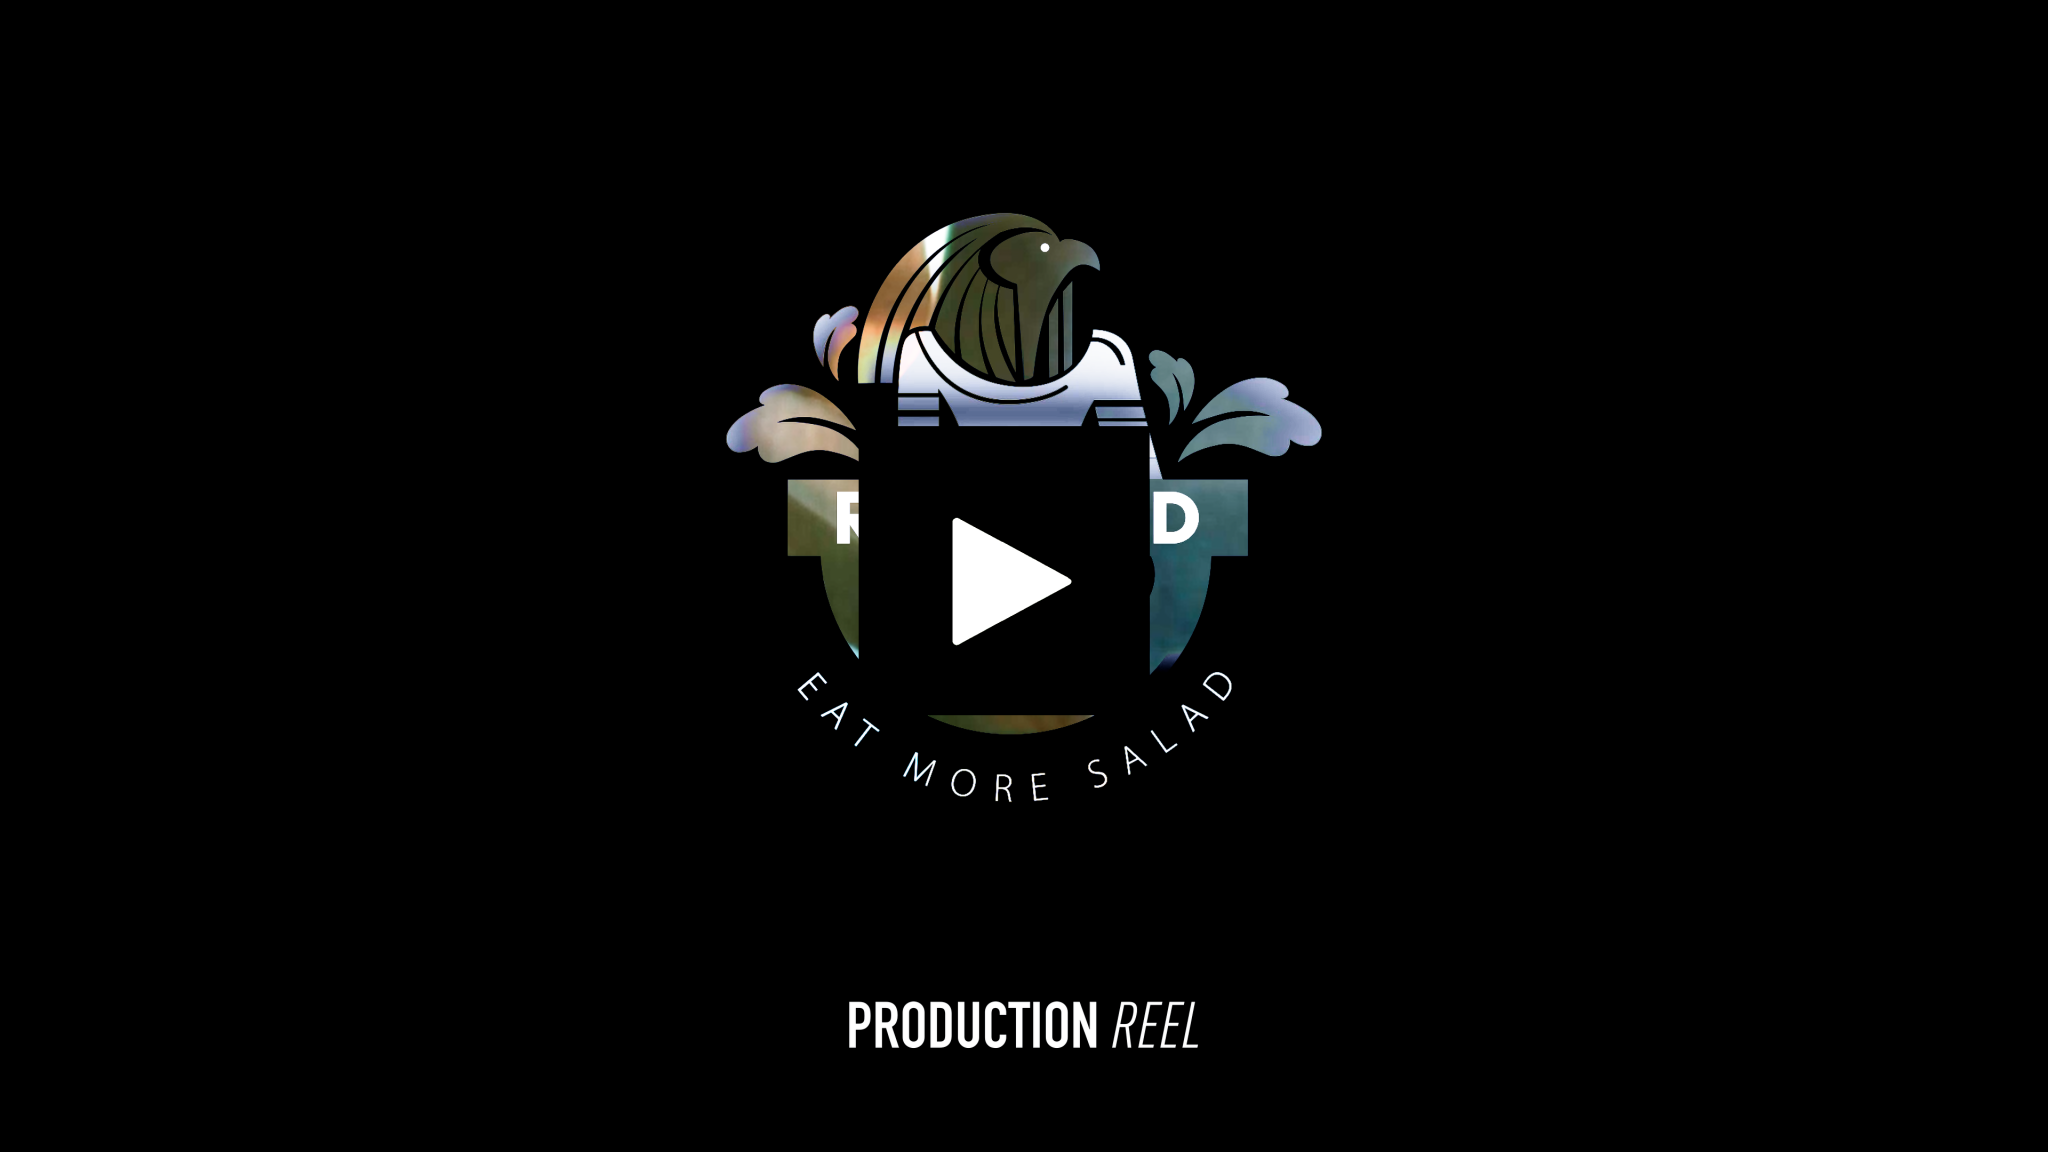
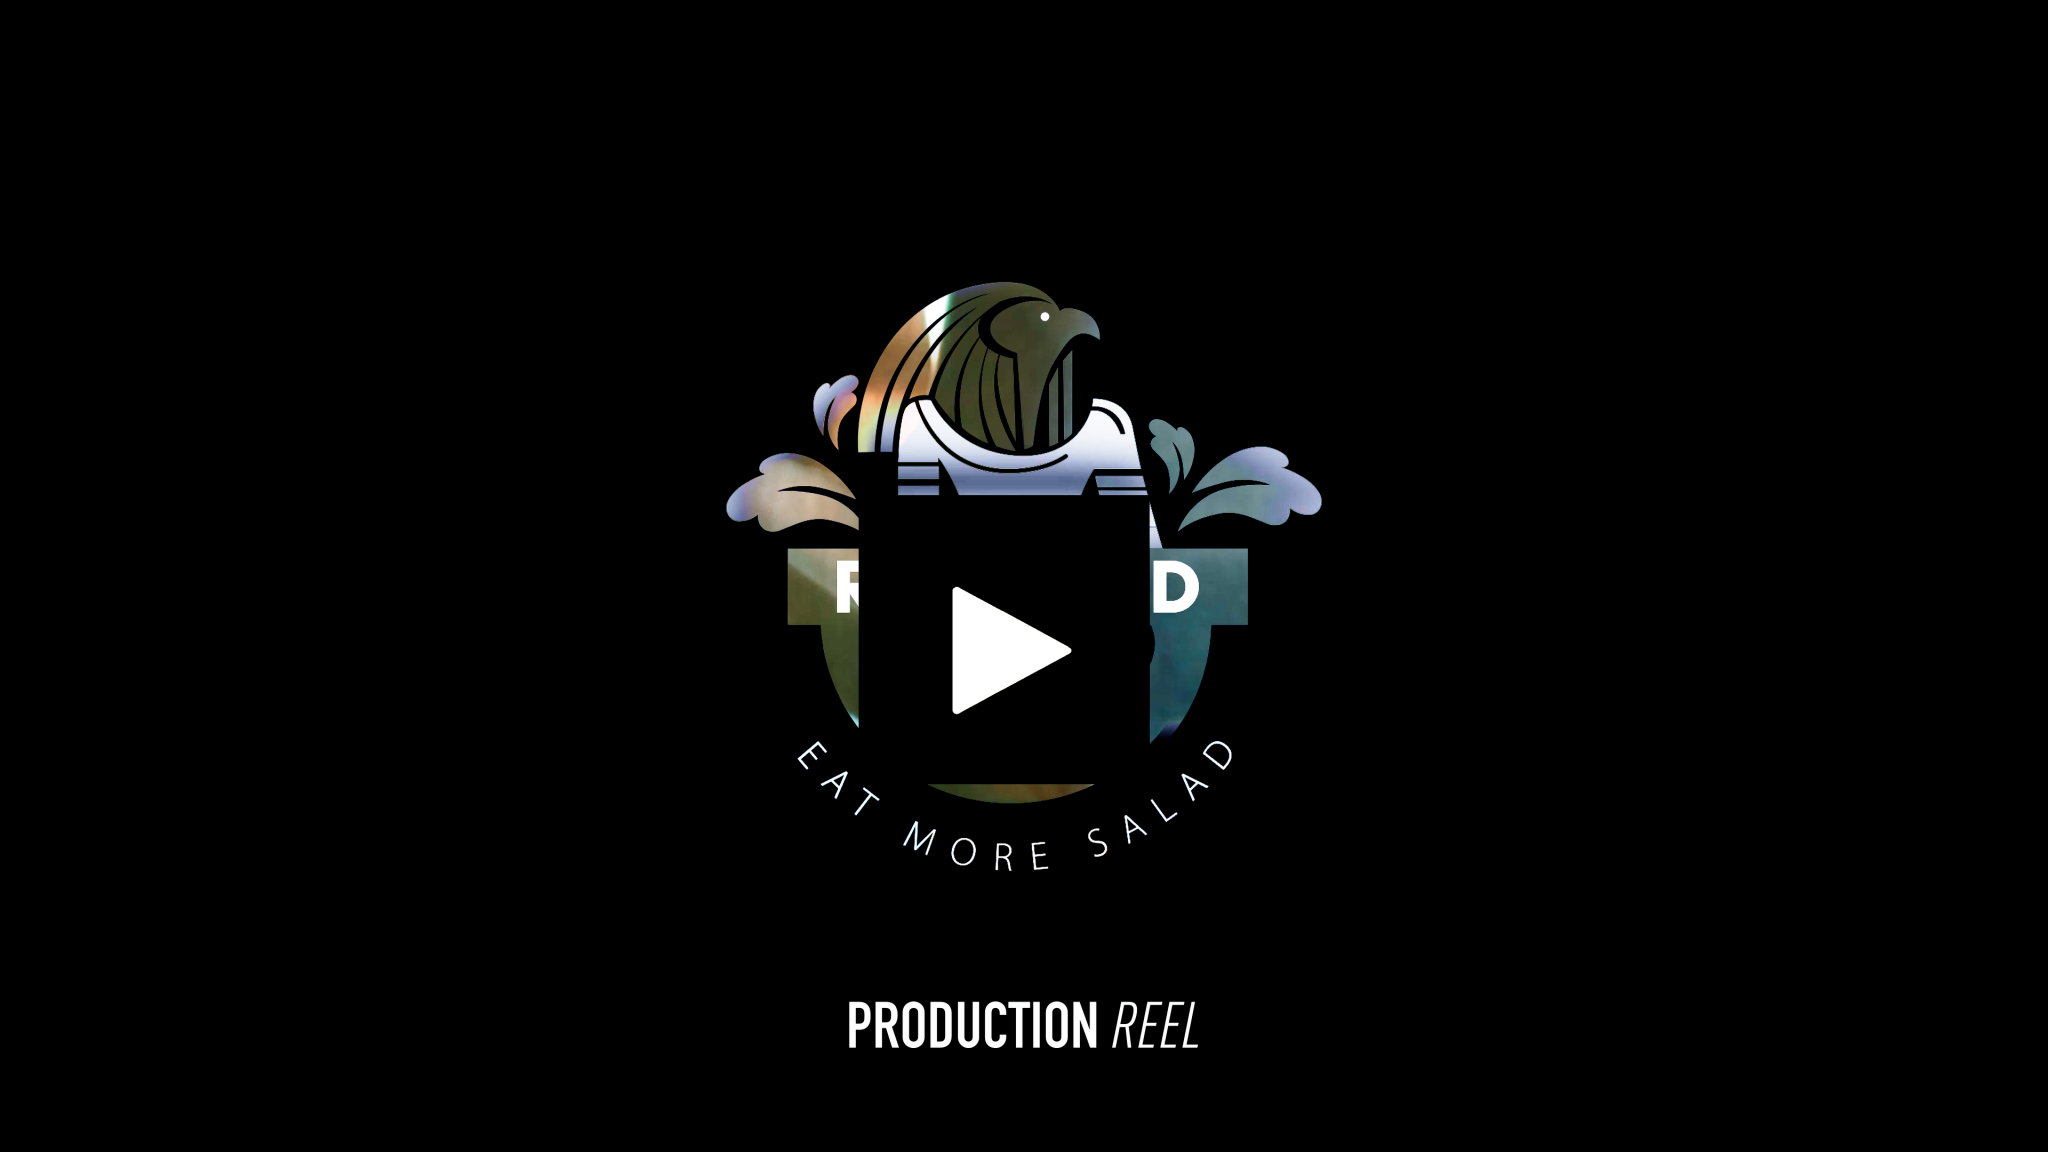
style clean up

Changed region(s): [[0.3438, 0.1875, 0.6562, 0.75], [0.5312, 0.7188, 0.5625, 0.75]]

diff --git a/styles/site.css b/styles/site.css
@@ -28,25 +28,74 @@
 /* Home header sits over the reel. The theme leaves the bar transparent
    (background:none), which reads as a thin grey line on the video.
    Paint the whole stack white and cover the 1px join. */
-.home #masthead,
-.home #masthead .ast-main-header-wrap,
-.home #masthead .ast-primary-header-bar,
-.home #masthead .main-header-bar,
-.home #masthead .site-primary-header-wrap,
-.home #masthead .ast-mobile-header-wrap,
-.home #masthead .ast-mobile-header-wrap .ast-primary-header-bar,
-.home #masthead .ast-mobile-header-wrap .main-header-bar,
-.home.ast-theme-transparent-header #masthead .main-header-bar,
-.home.ast-theme-transparent-header.ast-header-break-point #masthead .main-header-bar,
-.home #ast-fixed-header,
-.home #ast-fixed-header .main-header-bar,
-.home #ast-fixed-header .ast-primary-header-bar {
+/* Home at-rest header stays white over the reel. The sticky clone
+   (#ast-fixed-header) is nested inside #masthead, so these rules must
+   not reach it or the desktop sticky bar becomes a solid white slab. */
+.home #masthead > #ast-desktop-header,
+.home #masthead > #ast-desktop-header .ast-main-header-wrap,
+.home #masthead > #ast-desktop-header .ast-primary-header-bar,
+.home #masthead > #ast-desktop-header .main-header-bar,
+.home #masthead > #ast-desktop-header .site-primary-header-wrap,
+.home #masthead > #ast-mobile-header,
+.home #masthead > #ast-mobile-header .ast-main-header-wrap,
+.home #masthead > #ast-mobile-header .ast-primary-header-bar,
+.home #masthead > #ast-mobile-header .main-header-bar,
+.home.ast-theme-transparent-header #masthead > #ast-desktop-header .main-header-bar,
+.home.ast-theme-transparent-header.ast-header-break-point #masthead > #ast-mobile-header .main-header-bar {
 	background: #fff !important;
 	background-color: #fff !important;
 	box-shadow: none !important;
 	border: none !important;
 	border-bottom: none !important;
 	outline: none !important;
+}
+
+/* Sticky clone: same frosted glass as Portfolio
+   (rgba(255,255,255,0.62) + blur(20px)). Do not paint it
+   solid white, and do not force background:none — both
+   make Home/Contact diverge from Portfolio. */
+#ast-fixed-header .ast-main-header-wrap,
+#ast-fixed-header .site-primary-header-wrap,
+#ast-fixed-header .ast-mobile-header-wrap {
+	background: transparent !important;
+	background-color: transparent !important;
+}
+
+#ast-fixed-header .main-header-bar,
+#ast-fixed-header .ast-primary-header-bar {
+	background: rgba(255, 255, 255, 0.62) !important;
+	background-color: rgba(255, 255, 255, 0.62) !important;
+	backdrop-filter: blur(20px);
+	-webkit-backdrop-filter: blur(20px);
+}
+
+/* Contact: same translateY slide as Home/Portfolio. Blur stays off
+   until that 0.3s motion ends, so the frost cannot flash white. */
+.page-id-20 #ast-fixed-header .main-header-bar,
+.page-id-20 #ast-fixed-header .ast-primary-header-bar {
+	backdrop-filter: none;
+	-webkit-backdrop-filter: none;
+}
+
+.page-id-20 #ast-fixed-header.ast-header-sticked .main-header-bar,
+.page-id-20 #ast-fixed-header.ast-header-sticked .ast-primary-header-bar {
+	animation: ra-contact-frost 0.01s linear 0.3s both;
+}
+
+@keyframes ra-contact-frost {
+	from {
+		backdrop-filter: none;
+		-webkit-backdrop-filter: none;
+	}
+	to {
+		backdrop-filter: blur(20px);
+		-webkit-backdrop-filter: blur(20px);
+	}
+}
+
+html.ast-header-stick-slide-active .home #masthead::after,
+html.ast-header-stick-fade-active .home #masthead::after {
+	display: none;
 }
 
 .home #masthead::after {
@@ -157,11 +206,34 @@
 	gap: calc(var(--wp--style--block-gap, 24px) * 1.6);
 }
 
+/* Invisible spacer block above the Production Reel. Cut its height
+   in half so the reel sits 50% closer to the top of the page. */
+.page-id-18 .entry-content > .wp-block-buttons:first-child {
+	margin-top: calc(var(--wp--preset--spacing--60) * 0.5) !important;
+	margin-bottom: calc(var(--wp--preset--spacing--60) * 0.5) !important;
+}
+
+.page-id-18 .entry-content > .wp-block-buttons:first-child .wp-block-button__link {
+	padding-top: calc(var(--wp--preset--spacing--80) * 0.5) !important;
+	padding-bottom: calc(var(--wp--preset--spacing--80) * 0.5) !important;
+}
+
+.page-id-18 .ra-gallery--reel .ra-gallery__inner {
+	padding-top: 5px;
+}
+
+.page-id-18 .ra-gallery--reel .ra-gallery__grid {
+	width: 80%;
+	margin-inline: auto;
+}
+
 /* Portfolio caption under the Production Reel. */
 .page-id-18 .ra-gallery--reel + .wp-block-buttons {
 	margin-top: 0 !important;
 	margin-bottom: 0 !important;
-	min-height: calc(var(--wp--preset--spacing--60) * 2);
+	min-height: 0;
+	padding-top: var(--wp--preset--spacing--50);
+	padding-bottom: var(--wp--preset--spacing--50);
 	display: flex !important;
 	align-items: center;
 	justify-content: center;
@@ -172,7 +244,49 @@
 	color: #5e5e5e !important;
 	box-shadow: var(--ra-caption-shadow) !important;
 	padding-top: var(--wp--preset--spacing--20) !important;
-	padding-bottom: var(--wp--preset--spacing--20) !important;
+	padding-bottom: calc(var(--wp--preset--spacing--20) * 1.6) !important;
+}
+
+/* Leftover empty buttons block was adding a large gap before the
+   filter chips. Hide it so the caption shadow sits closer to them. */
+.page-id-18 .wp-block-buttons:empty {
+	display: none !important;
+	margin: 0 !important;
+}
+
+.page-id-18 .ra-gallery--grid .ra-gallery__filters {
+	padding-top: 0.35rem;
+	margin-top: 0;
+}
+
+/* Portfolio “Want to see more?” — 30% smaller than the 36px / spacing-50 pill. */
+.page-id-18 .uagb-block-3904caaf .wp-block-button {
+	width: 70% !important;
+}
+
+.page-id-18 .uagb-block-3904caaf .wp-block-button__link {
+	font-size: 25.2px !important;
+	padding: calc(var(--wp--preset--spacing--50) * 0.7) !important;
+}
+
+/* Home Portfolio / Contact pills: green glow on hover. */
+.home .entry-content > .wp-block-buttons .wp-block-button__link {
+	transition: filter 0.2s ease, box-shadow 0.2s ease;
+}
+
+.home .entry-content > .wp-block-buttons .wp-block-button__link:hover,
+.home .entry-content > .wp-block-buttons .wp-block-button__link:focus {
+	filter: brightness(1.18);
+	box-shadow: 0 6px 22px rgba(33, 136, 72, 0.5);
+}
+
+/* Contact form submit: green hover instead of the Spectra/WP blue. */
+.page-id-20 .uagb-forms-main-submit-button:hover,
+.page-id-20 .uagb-forms-main-submit-button:focus {
+	background: var(--ast-global-color-1, #218848) !important;
+	background-color: var(--ast-global-color-1, #218848) !important;
+	border-color: var(--ast-global-color-1, #218848) !important;
+	color: #fff !important;
 }
 
 /* Home wordmark and Contact team block: same resting shadow as the
@@ -221,9 +335,9 @@
 @media (max-width: 921px) {
 	/* Solid header so the reel cannot show through it or through the
 	   join with the dropdown. */
-	.ast-mobile-header-wrap,
-	.ast-mobile-header-wrap .ast-primary-header-bar,
-	.ast-mobile-header-wrap .main-header-bar {
+	#masthead > #ast-mobile-header,
+	#masthead > #ast-mobile-header .ast-primary-header-bar,
+	#masthead > #ast-mobile-header .main-header-bar {
 		background: #fff !important;
 		box-shadow: none !important;
 		border-bottom: none !important;
@@ -240,7 +354,8 @@
 	}
 
 	/* Portfolio and Contact: keep the real mobile bar stuck to the
-	   top. Astra's cloned #ast-fixed-header is desktop-oriented. */
+	   top. Hide Astra's fade/slide clone so it cannot appear
+	   translucent and then get covered by this white bar. */
 	body:not(.home) #masthead {
 		position: sticky !important;
 		top: 0;
@@ -251,6 +366,11 @@
 	body:not(.home) #masthead .ast-mobile-header-wrap,
 	body:not(.home) #masthead .main-header-bar {
 		background: #fff !important;
+	}
+
+	body:not(.home) #ast-fixed-header {
+		display: none !important;
+		visibility: hidden !important;
 	}
 
 	/* Home headline and subhead sit flush against the viewport. */
@@ -314,5 +434,11 @@
 
 	.page-id-20 .ra-photo-strip {
 		margin-top: 1.35rem !important;
+	}
+
+	/* Portfolio body copy is 25px on desktop; 60% smaller on mobile. */
+	.page-id-18 .ra-gallery--reel + .wp-block-buttons .wp-block-button__link,
+	.page-id-18 .ra-gallery--grid + .wp-block-buttons .wp-block-button__link {
+		font-size: 10px !important;
 	}
 }

diff --git a/404.html b/404.html
@@ -63,7 +63,7 @@ video::-webkit-media-controls-start-playback-button {
 .ast-desktop .menu-item-938 .astra-mm-icon-label.icon-item-938,  .ast-header-break-point .menu-item-938 .astra-mm-icon-label.icon-item-938{display:inline-block;vertical-align:middle;line-height:0;margin:5px;}.ast-desktop .menu-item-938 .astra-mm-icon-label.icon-item-938 svg,  .ast-header-break-point .menu-item-938 .astra-mm-icon-label.icon-item-938 svg{color:var(--ast-global-color-0);fill:var(--ast-global-color-0);width:20px;height:20px;}.ast-desktop .menu-item-937 .astra-mm-icon-label.icon-item-937,  .ast-header-break-point .menu-item-937 .astra-mm-icon-label.icon-item-937{display:inline-block;vertical-align:middle;line-height:0;margin:5px;}.ast-desktop .menu-item-937 .astra-mm-icon-label.icon-item-937 svg,  .ast-header-break-point .menu-item-937 .astra-mm-icon-label.icon-item-937 svg{color:var(--ast-global-color-0);fill:var(--ast-global-color-0);width:20px;height:20px;}.ast-desktop .menu-item-938 .astra-mm-icon-label.icon-item-938,  .ast-header-break-point .menu-item-938 .astra-mm-icon-label.icon-item-938{display:inline-block;vertical-align:middle;line-height:0;margin:5px;}.ast-desktop .menu-item-938 .astra-mm-icon-label.icon-item-938 svg,  .ast-header-break-point .menu-item-938 .astra-mm-icon-label.icon-item-938 svg{color:var(--ast-global-color-0);fill:var(--ast-global-color-0);width:20px;height:20px;}.ast-desktop .menu-item-937 .astra-mm-icon-label.icon-item-937,  .ast-header-break-point .menu-item-937 .astra-mm-icon-label.icon-item-937{display:inline-block;vertical-align:middle;line-height:0;margin:5px;}.ast-desktop .menu-item-937 .astra-mm-icon-label.icon-item-937 svg,  .ast-header-break-point .menu-item-937 .astra-mm-icon-label.icon-item-937 svg{color:var(--ast-global-color-0);fill:var(--ast-global-color-0);width:20px;height:20px;}
 </style>
 
-<link rel="stylesheet" href="styles/site.css?v=20260816i" media="all" />
+<link rel="stylesheet" href="styles/site.css?v=20260816s" media="all" />
 </head>
 
 <body itemtype='https://schema.org/WebPage' itemscope='itemscope' class="error404 wp-custom-logo wp-embed-responsive wp-theme-astra wp-child-theme-astra-child ast-desktop ast-page-builder-template ast-no-sidebar astra-4.13.2 ast-inherit-site-logo-transparent ast-theme-transparent-header ast-hfb-header ast-full-width-layout ast-sticky-main-shrink ast-sticky-header-shrink ast-inherit-site-logo-sticky ast-primary-sticky-enabled astra-addon-4.13.7">

diff --git a/index.html b/index.html
@@ -68,7 +68,7 @@ h1:where(.wp-block-heading).has-background,h2:where(.wp-block-heading).has-backg
 
 <link rel="canonical" href="./" />
 
-<style id="uagb-style-conditional-extension">@media (min-width: 1025px){body .uag-hide-desktop.uagb-google-map__wrap,body .uag-hide-desktop{display:none !important}}@media (min-width: 768px) and (max-width: 1024px){body .uag-hide-tab.uagb-google-map__wrap,body .uag-hide-tab{display:none !important}}@media (max-width: 767px){body .uag-hide-mob.uagb-google-map__wrap,body .uag-hide-mob{display:none !important}}</style><style id="uagb-style-frontend-7">.uag-blocks-common-selector{z-index:var(--z-index-desktop) !important}@media(max-width: 976px){.uag-blocks-common-selector{z-index:var(--z-index-tablet) !important}}@media(max-width: 767px){.uag-blocks-common-selector{z-index:var(--z-index-mobile) !important}}</style><link rel="stylesheet" href="styles/site.css?v=20260816i" media="all" />
+<style id="uagb-style-conditional-extension">@media (min-width: 1025px){body .uag-hide-desktop.uagb-google-map__wrap,body .uag-hide-desktop{display:none !important}}@media (min-width: 768px) and (max-width: 1024px){body .uag-hide-tab.uagb-google-map__wrap,body .uag-hide-tab{display:none !important}}@media (max-width: 767px){body .uag-hide-mob.uagb-google-map__wrap,body .uag-hide-mob{display:none !important}}</style><style id="uagb-style-frontend-7">.uag-blocks-common-selector{z-index:var(--z-index-desktop) !important}@media(max-width: 976px){.uag-blocks-common-selector{z-index:var(--z-index-tablet) !important}}@media(max-width: 767px){.uag-blocks-common-selector{z-index:var(--z-index-mobile) !important}}</style><link rel="stylesheet" href="styles/site.css?v=20260816s" media="all" />
 <link rel="icon" href="media/logos/app-icon-32x32.png" sizes="32x32" />
 <link rel="icon" href="media/logos/app-icon-192x192.png" sizes="192x192" />
 <link rel="apple-touch-icon" href="media/logos/app-icon-180x180.png" />

diff --git a/contact/index.html b/contact/index.html
@@ -55,7 +55,7 @@ img:is([sizes=auto i],[sizes^="auto," i]){contain-intrinsic-size:3000px 1500px}
 
 <link rel="canonical" href="../contact/" />
 
-<style id="uagb-style-conditional-extension">@media (min-width: 1025px){body .uag-hide-desktop.uagb-google-map__wrap,body .uag-hide-desktop{display:none !important}}@media (min-width: 768px) and (max-width: 1024px){body .uag-hide-tab.uagb-google-map__wrap,body .uag-hide-tab{display:none !important}}@media (max-width: 767px){body .uag-hide-mob.uagb-google-map__wrap,body .uag-hide-mob{display:none !important}}</style><link rel="stylesheet" href="../styles/site.css?v=20260816i" media="all" />
+<style id="uagb-style-conditional-extension">@media (min-width: 1025px){body .uag-hide-desktop.uagb-google-map__wrap,body .uag-hide-desktop{display:none !important}}@media (min-width: 768px) and (max-width: 1024px){body .uag-hide-tab.uagb-google-map__wrap,body .uag-hide-tab{display:none !important}}@media (max-width: 767px){body .uag-hide-mob.uagb-google-map__wrap,body .uag-hide-mob{display:none !important}}</style><link rel="stylesheet" href="../styles/site.css?v=20260816s" media="all" />
 <link rel="icon" href="../media/logos/app-icon-32x32.png" sizes="32x32" />
 <link rel="icon" href="../media/logos/app-icon-192x192.png" sizes="192x192" />
 <link rel="apple-touch-icon" href="../media/logos/app-icon-180x180.png" />

diff --git a/portfolio/index.html b/portfolio/index.html
@@ -83,7 +83,7 @@ video::-webkit-media-controls-start-playback-button {
 </style>
 
 <link rel="stylesheet" href="../styles/video-gallery.css" media="all" />
-<link rel="stylesheet" href="../styles/site.css?v=20260816i" media="all" />
+<link rel="stylesheet" href="../styles/site.css?v=20260816s" media="all" />
 </head>
 
 <body itemtype='https://schema.org/WebPage' itemscope='itemscope' class="wp-singular page-template-default page page-id-18 wp-custom-logo wp-embed-responsive wp-theme-astra wp-child-theme-astra-child ast-desktop ast-plain-container ast-no-sidebar astra-4.13.2 ast-single-post ast-inherit-site-logo-transparent ast-theme-transparent-header ast-hfb-header ast-full-width-layout ast-sticky-main-shrink ast-sticky-header-shrink ast-inherit-site-logo-sticky ast-primary-sticky-enabled astra-addon-4.13.7">

diff --git a/data/portfolio-videos.js b/data/portfolio-videos.js
@@ -58,7 +58,7 @@ window.RA_PORTFOLIO = {
 	reel: {
 		youtube: "p_sRUSicNCA",
 		title: "Ra Salad Reel",
-		poster: "media/thumbnails/production-reel-2048x1152.png"
+		poster: "media/thumbnails/production-reel-2048x1152.png?v=20260817"
 	},
 
 	// Filter buttons, shown in this order after "All Videos".
